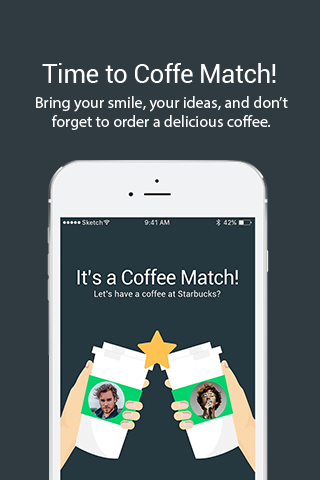
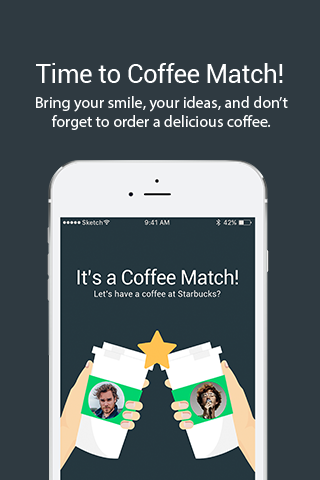
correcao de pequenos bugs

Changed region(s): [[0.125, 0.125, 0.9062, 0.1875]]

diff --git a/Coffee Match/platforms/ios/www/js/my-app.js b/Coffee Match/platforms/ios/www/js/my-app.js
@@ -54,13 +54,13 @@ myApp.onPageInit('passo2', function (page) {
 		var faculdade = $$("#passo2-faculdade").val();
 		var nascimento = $$("#passo2-nascimento").val();
 		
-		if (profissao.length == 0) {
-			document.getElementById("passo2-profissao").focus();
+		if (faculdade.length < 2) {
+			document.getElementById("passo2-faculdade").focus();
 			return false;
 		}
 		
-		if (faculdade.length == 0) {
-			document.getElementById("passo2-faculdade").focus();
+		if (profissao.length == 0) {
+			document.getElementById("passo2-profissao").focus();
 			return false;
 		}
 		
@@ -689,15 +689,13 @@ myApp.onPageInit('profile', function (page) {
 		});
 		looking = looking.join(); 
 		
+		var user_id = localStorage.getItem("user_id");
+		//Chamada ao servidor para atualização de informações de perfil
+		setProfile(descricao, profissao, idade, faculdade, tags, looking, user_id);
+		
 		localStorage.setItem("description", descricao);
 		localStorage.setItem("occupation", profissao);
 		localStorage.setItem("college", faculdade);
-		
-		var user_id = localStorage.getItem("user_id");
-		
-		
-		//Chamada ao servidor para atualização de informações de perfil
-		setProfile(descricao, profissao, idade, faculdade, tags, looking, user_id);
 		
 		mainView.router.loadPage('profile-preview.html');
 	})

diff --git a/Coffee Match/www/js/my-app.js b/Coffee Match/www/js/my-app.js
@@ -54,13 +54,13 @@ myApp.onPageInit('passo2', function (page) {
 		var faculdade = $$("#passo2-faculdade").val();
 		var nascimento = $$("#passo2-nascimento").val();
 		
-		if (profissao.length == 0) {
-			document.getElementById("passo2-profissao").focus();
+		if (faculdade.length < 2) {
+			document.getElementById("passo2-faculdade").focus();
 			return false;
 		}
 		
-		if (faculdade.length == 0) {
-			document.getElementById("passo2-faculdade").focus();
+		if (profissao.length == 0) {
+			document.getElementById("passo2-profissao").focus();
 			return false;
 		}
 		
@@ -689,15 +689,13 @@ myApp.onPageInit('profile', function (page) {
 		});
 		looking = looking.join(); 
 		
+		var user_id = localStorage.getItem("user_id");
+		//Chamada ao servidor para atualização de informações de perfil
+		setProfile(descricao, profissao, idade, faculdade, tags, looking, user_id);
+		
 		localStorage.setItem("description", descricao);
 		localStorage.setItem("occupation", profissao);
 		localStorage.setItem("college", faculdade);
-		
-		var user_id = localStorage.getItem("user_id");
-		
-		
-		//Chamada ao servidor para atualização de informações de perfil
-		setProfile(descricao, profissao, idade, faculdade, tags, looking, user_id);
 		
 		mainView.router.loadPage('profile-preview.html');
 	})

diff --git a/Coffee Match/www/js/index.js b/Coffee Match/www/js/index.js
@@ -216,7 +216,7 @@ var app = {
 																	
 								    //Monta o DOM
 									var line1 = "<li class="+classe+" id="+data[i].id+"><a href='user.html' data-animate-pages='false' class='no-animation'>"
-												+ "<div class='text-center' style='background: url(img/background_profile.png); margin: -10px; padding-bottom: 1px'>"
+												+ "<div class='text-center' style='background: url(img/background_profile.png); background-size: cover; margin: -10px; padding-bottom: 1px'>"
 												+ "<div class='row'>"
 												+ "<div class='col-25' style='padding-top: 55px'><span style='color: #00d173' id='distance'>10</span><br><p class='subcol' id='distance'>"+metrica+"</p></div>"
 												+ "<div class='col-50'><img class='img' src="+data[i].picture+" /></div>"
@@ -418,7 +418,7 @@ var app = {
 		
 		myApp.onPageInit('login2', function() {
 			 
-			    //facebookConnectPlugin.browserInit("1647443792236383");
+			   //facebookConnectPlugin.browserInit("1647443792236383");
 				
 				notification_key = null;
 				

diff --git a/Coffee Match/platforms/ios/www/js/index.js b/Coffee Match/platforms/ios/www/js/index.js
@@ -216,7 +216,7 @@ var app = {
 																	
 								    //Monta o DOM
 									var line1 = "<li class="+classe+" id="+data[i].id+"><a href='user.html' data-animate-pages='false' class='no-animation'>"
-												+ "<div class='text-center' style='background: url(img/background_profile.png); margin: -10px; padding-bottom: 1px'>"
+												+ "<div class='text-center' style='background: url(img/background_profile.png); background-size: cover; margin: -10px; padding-bottom: 1px'>"
 												+ "<div class='row'>"
 												+ "<div class='col-25' style='padding-top: 55px'><span style='color: #00d173' id='distance'>10</span><br><p class='subcol' id='distance'>"+metrica+"</p></div>"
 												+ "<div class='col-50'><img class='img' src="+data[i].picture+" /></div>"
@@ -418,7 +418,7 @@ var app = {
 		
 		myApp.onPageInit('login2', function() {
 			 
-			    facebookConnectPlugin.browserInit("1647443792236383");
+			   facebookConnectPlugin.browserInit("1647443792236383");
 				
 				notification_key = null;
 				/*

diff --git a/Coffee Match/platforms/ios/www/match.html b/Coffee Match/platforms/ios/www/match.html
@@ -11,12 +11,12 @@
 <div class="pages">
   <div data-page="match" class="page no-navbar no-toolbar">
     <div class="page-content" style="background: #2f3a41; padding: 0px">
-	<a href="index.html" class="link color-white" data-animate-pages="false" style="position: fixed; top: 3%; left: 4%; z-index: 3"><img width="25" height="25" src="img/ic_action_cancel.png" /></a>
+	<a href="index.html" class="link color-white" data-animate-pages="false" style="position: fixed; top: 4%; left: 4%; z-index: 3"><img width="25" height="25" src="img/ic_action_cancel.png" /></a>
       <div class="text-center">
-	   <br>
+	   <br><br>
 		<p style="font-size: 35px; color: white">It's a Coffee Match!</p>
 		<p style="color: white; margin-top: -35px">Let's have a coffee at Starbucks?</p>
-		<br><br>
+		<br>
 		<div style="position: relative">
 		    <img src="" id="user-one-img" />
 			<img src="" id="user-two-img" />

diff --git a/Coffee Match/www/match.html b/Coffee Match/www/match.html
@@ -11,12 +11,12 @@
 <div class="pages">
   <div data-page="match" class="page no-navbar no-toolbar">
     <div class="page-content" style="background: #2f3a41; padding: 0px">
-	<a href="index.html" class="link color-white" data-animate-pages="false" style="position: fixed; top: 3%; left: 4%; z-index: 3"><img width="25" height="25" src="img/ic_action_cancel.png" /></a>
+	<a href="index.html" class="link color-white" data-animate-pages="false" style="position: fixed; top: 4%; left: 4%; z-index: 3"><img width="25" height="25" src="img/ic_action_cancel.png" /></a>
       <div class="text-center">
-	   <br>
+	   <br><br>
 		<p style="font-size: 35px; color: white">It's a Coffee Match!</p>
 		<p style="color: white; margin-top: -35px">Let's have a coffee at Starbucks?</p>
-		<br><br>
+		<br>
 		<div style="position: relative">
 		    <img src="" id="user-one-img" />
 			<img src="" id="user-two-img" />

diff --git a/Coffee Match/platforms/ios/www/starbucks-proximas.html b/Coffee Match/platforms/ios/www/starbucks-proximas.html
@@ -13,9 +13,9 @@
 		
 			<div id="map" style="width: 100%; height: 50%">
 			</div>
-			<div class="page-content" style="margin-top: -40px">
+			<div class="page-content" style="margin-top: -22px">
 			<div class="list-block media-list" style="margin-top: -30px">
-				  <ul id="proximas-ul">
+				  <ul id="proximas-ul" style="padding-bottom: 200px">
 						
 				  </ul>
 			</div>

diff --git a/Coffee Match/www/starbucks-proximas.html b/Coffee Match/www/starbucks-proximas.html
@@ -13,9 +13,9 @@
 		
 			<div id="map" style="width: 100%; height: 50%">
 			</div>
-			<div class="page-content" style="margin-top: -40px">
+			<div class="page-content" style="margin-top: -22px">
 			<div class="list-block media-list" style="margin-top: -30px">
-				  <ul id="proximas-ul">
+				  <ul id="proximas-ul" style="padding-bottom: 200px">
 						
 				  </ul>
 			</div>
